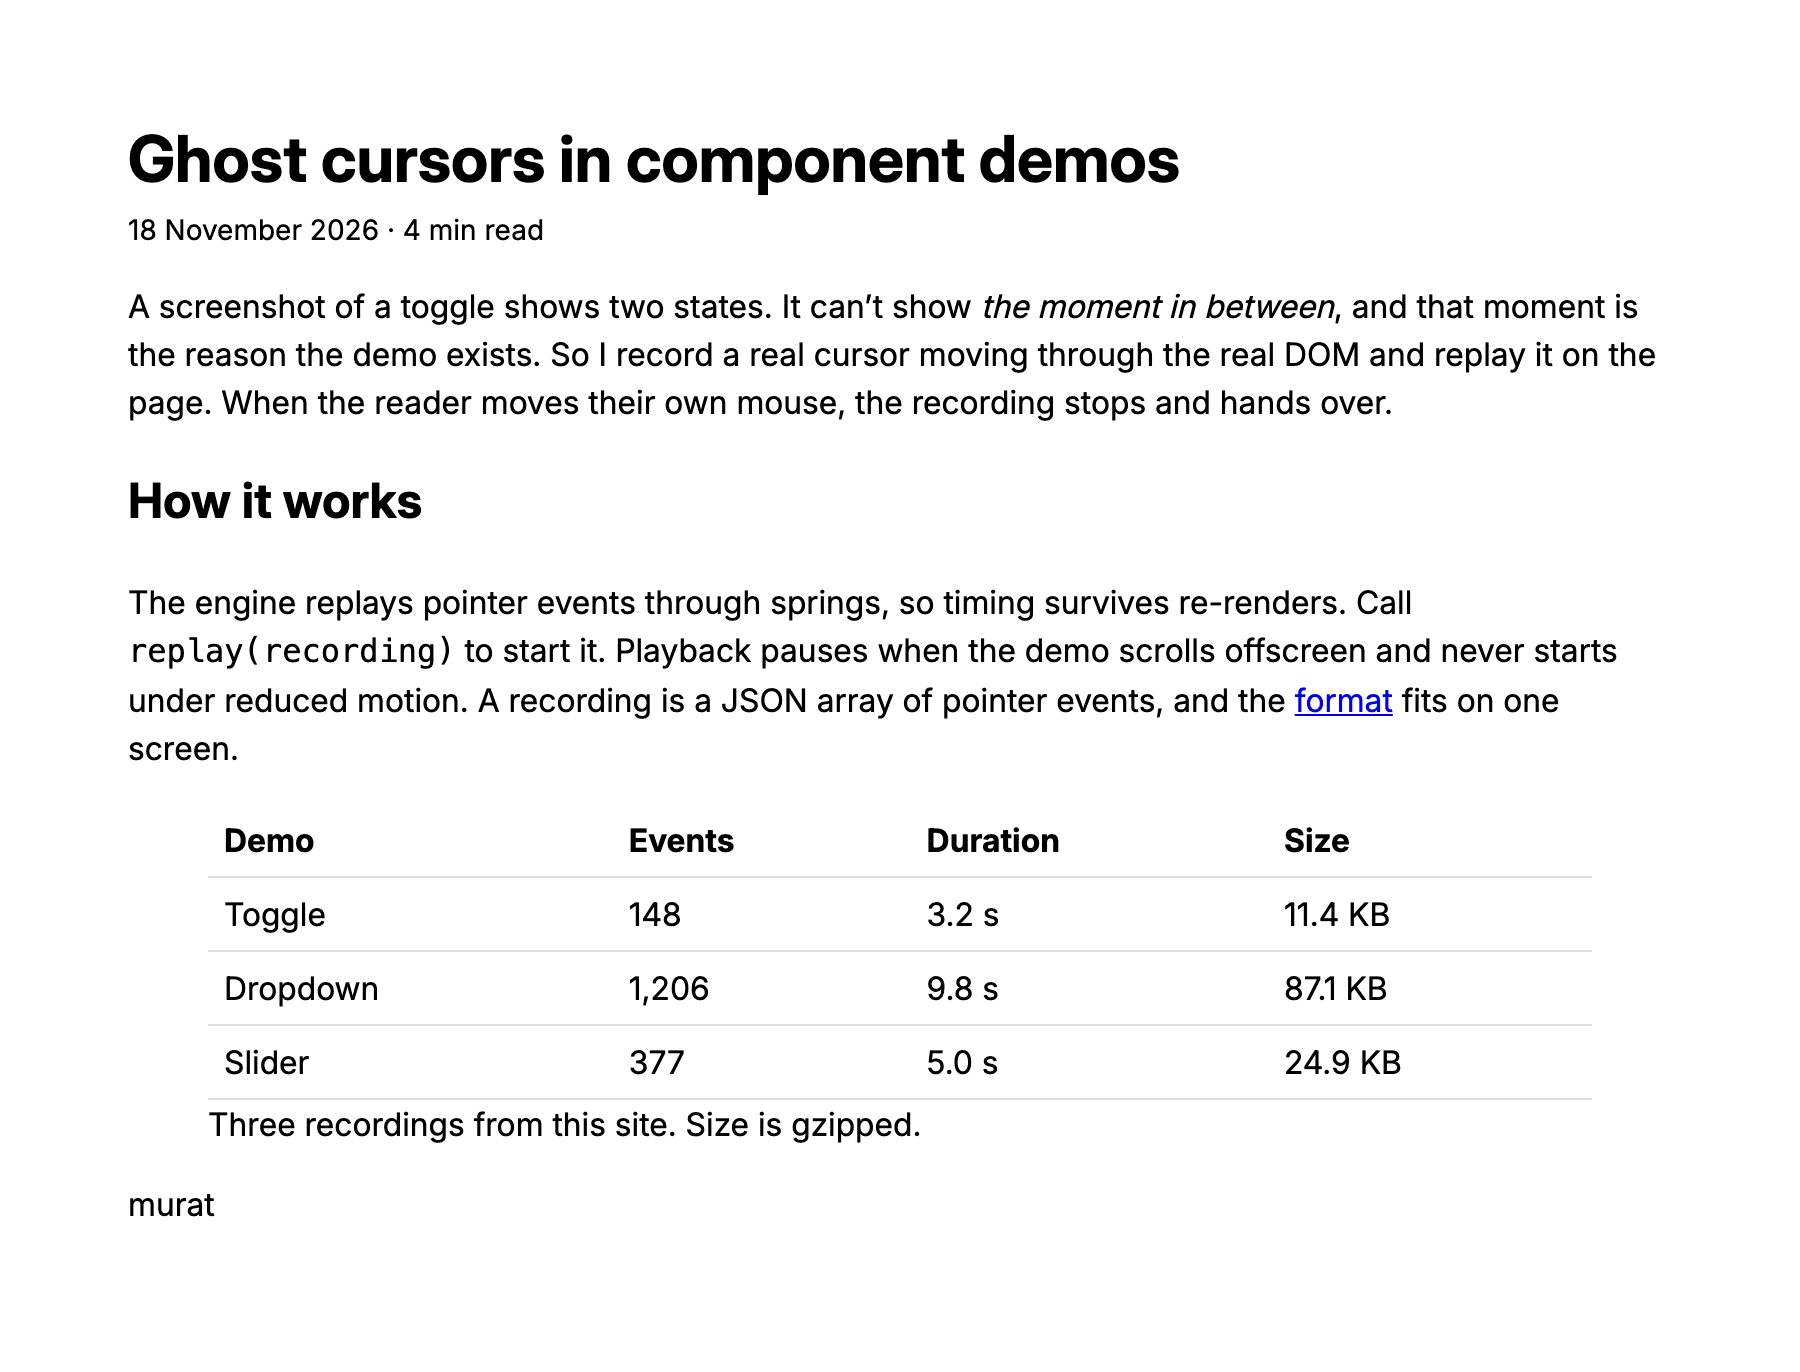
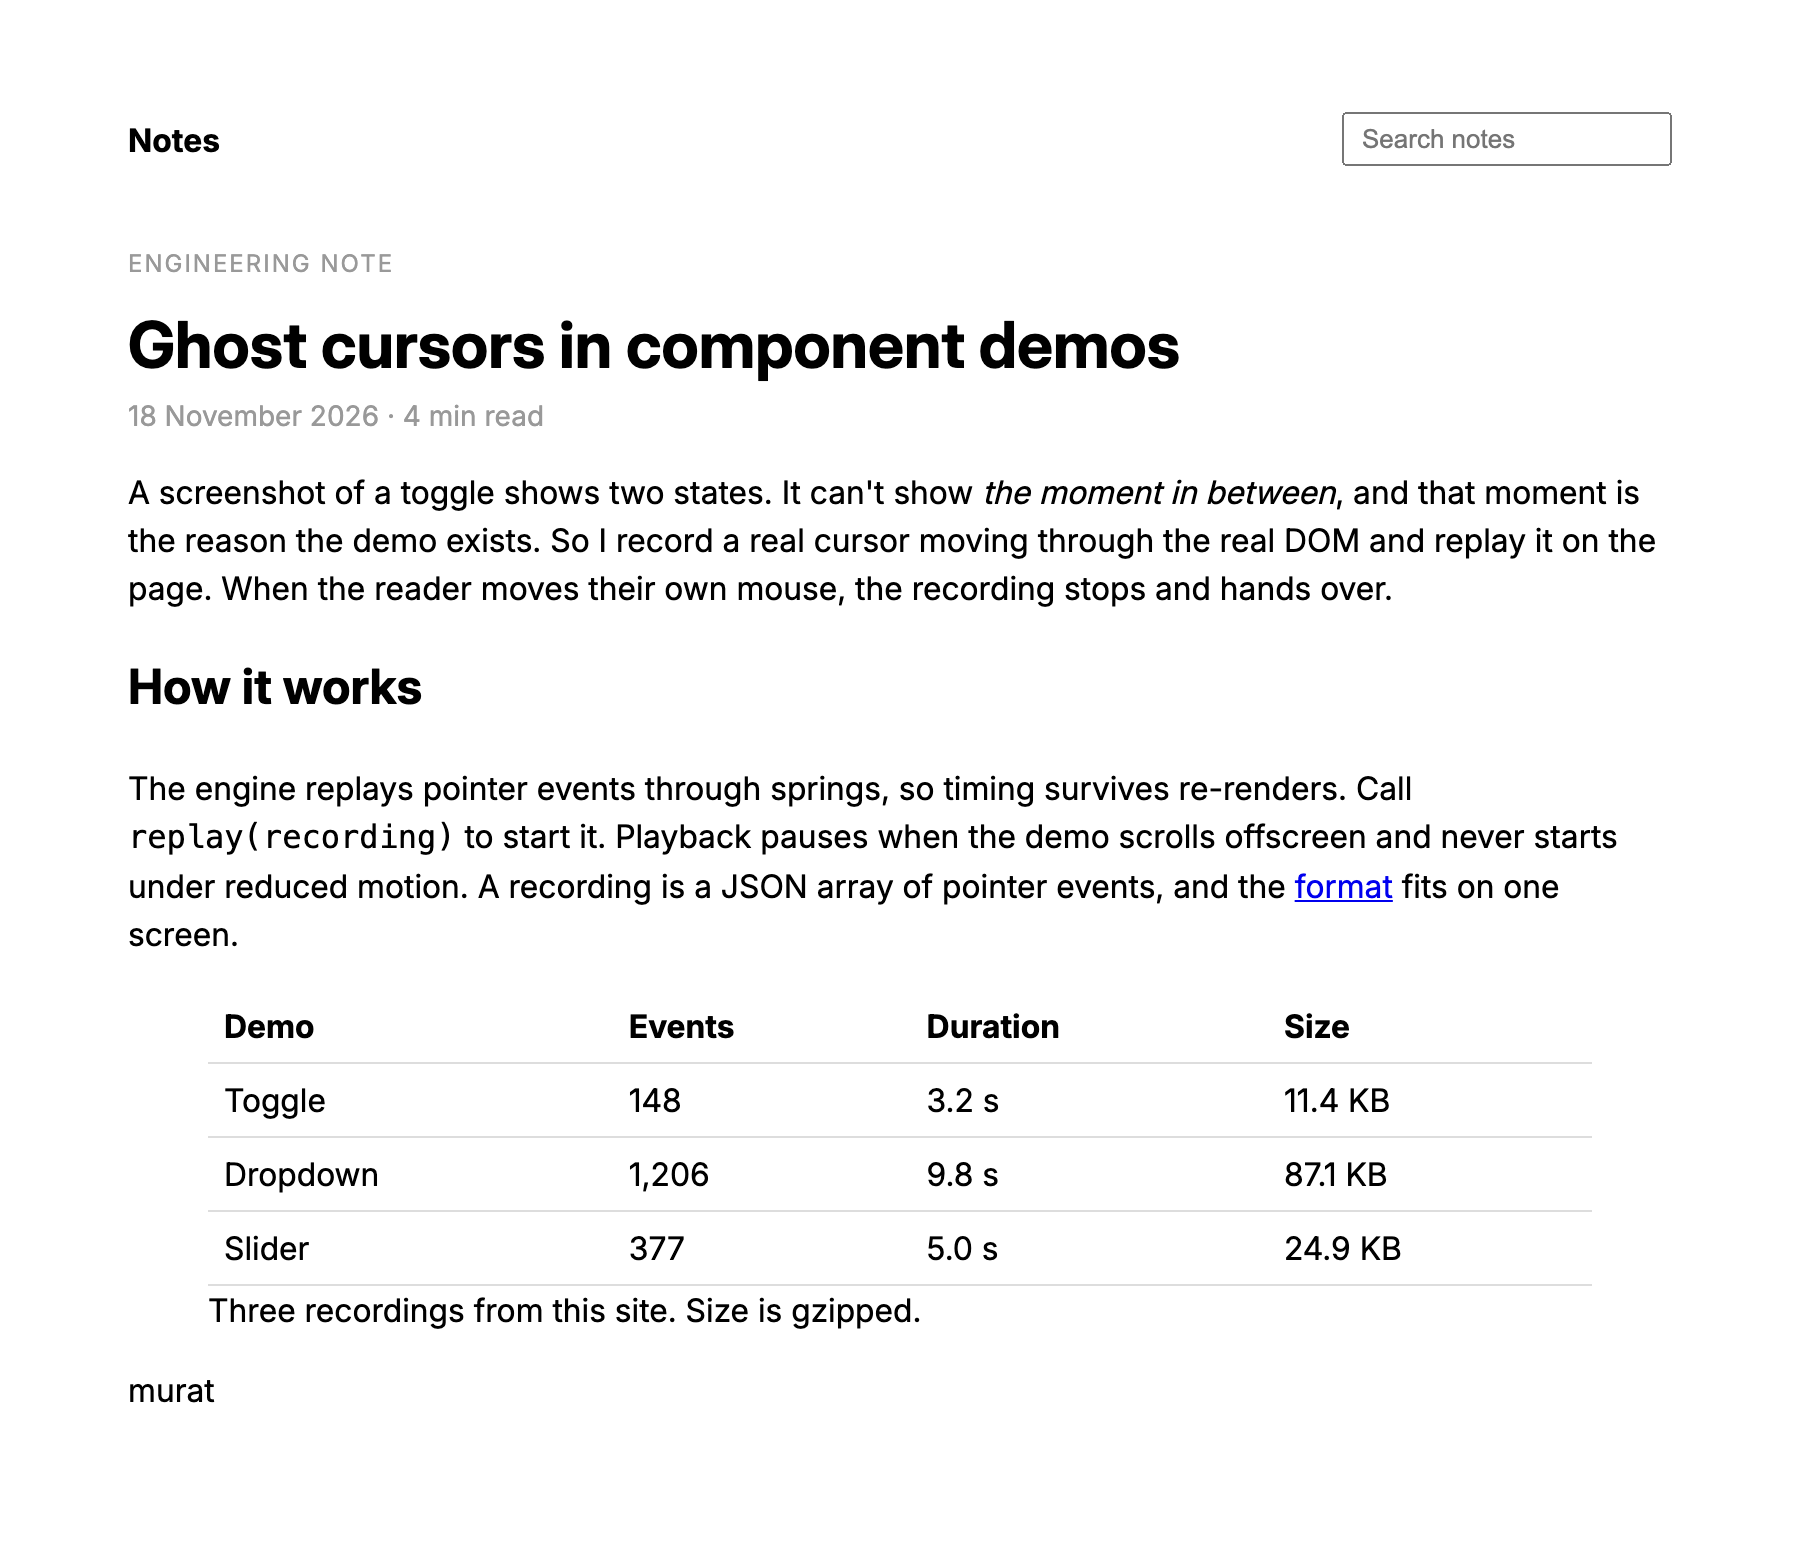
Regenerate type-taste before and after

diff --git a/skills/type-taste/before-after/before.html b/skills/type-taste/before-after/before.html
@@ -1,17 +1,24 @@
-<!doctype html><html lang="en"><head><meta charset="utf-8"><title>Before</title><style>
+<!doctype html><html lang="en"><head><meta charset="utf-8"><meta name="viewport" content="width=device-width, initial-scale=1, maximum-scale=1"><title>Before</title><style>
 @font-face{font-family:"Inter";src:url(fonts/InterVariable.woff2) format("woff2");font-weight:100 900}
 body{margin:0;background:#fff;color:#000;font-family:"Inter",system-ui,sans-serif;font-size:16px;line-height:1.5}
 .page{padding:56px 64px}
+.top{display:flex;justify-content:space-between;align-items:center;margin-bottom:40px}
+.top a{color:#000;font-weight:700;text-decoration:none}
+.top input{font-size:13px;padding:4px 8px}
+.kicker{font-size:12px;letter-spacing:1px;color:#999;margin:0 0 8px}
 h1{font-size:32px;font-weight:700;line-height:1.5;margin:0}
-.date{font-size:14px;margin:0 0 16px}
+.date{font-size:14px;color:#999;margin:0 0 16px}
 code{font-family:monospace}
 table{border-collapse:collapse;width:100%} th,td{text-align:left;padding:6px 8px;border-bottom:1px solid #ddd} th{font-weight:700}
-</style></head><body><div class="page"><article>
+</style></head><body><div class="page">
+<nav class="top"><a href="/">Notes</a><input type="search" name="q" placeholder="Search notes" aria-label="Search notes"></nav>
+<article>
   <header>
+    <p class="kicker">ENGINEERING NOTE</p>
     <h1>Ghost cursors in component demos</h1>
     <p class="date"><time datetime="2026-11-18">18 November 2026</time> · 4 min read</p>
   </header>
-  <p>A screenshot of a toggle shows two states. It can’t show <em>the moment in between</em>, and that moment is the reason the demo exists. So I record a real cursor moving through the real DOM and replay it on the page. When the reader moves their own mouse, the recording stops and hands over.</p>
+  <p>A screenshot of a toggle shows two states. It can't show <em>the moment in between</em>, and that moment is the reason the demo exists. So I record a real cursor moving through the real DOM and replay it on the page. When the reader moves their own mouse, the recording stops and hands over.</p>
   <h2>How it works</h2>
   <p>The engine replays pointer events through springs, so timing survives re-renders. Call <code>replay(recording)</code> to start it. Playback pauses when the demo scrolls offscreen and never starts under reduced motion. A recording is a JSON array of pointer events, and the <a href="#format">format</a> fits on one screen.</p>
   <figure>

diff --git a/skills/type-taste/before-after/after.html b/skills/type-taste/before-after/after.html
@@ -1,10 +1,17 @@
-<!doctype html><html lang="en"><head><meta charset="utf-8"><meta name="color-scheme" content="light dark"><title>After</title>
+<!doctype html><html lang="en"><head><meta charset="utf-8"><meta name="viewport" content="width=device-width, initial-scale=1"><meta name="color-scheme" content="light dark"><title>After</title>
 <link rel="stylesheet" href="tokens.css"><style>
 /* Spacing is left to the eye: everything below is a multiple of the line it sits on (lh). */
 body { margin: 0; }
-article { max-width: var(--mt-measure); margin-inline: auto; padding-block: 3lh 2lh; }
+nav, article { max-width: var(--mt-measure); margin-inline: auto; }
+nav { display: flex; justify-content: space-between; align-items: center; gap: 1lh; padding-block-start: 2lh; }
+.mt nav a { font-size: var(--mt-ui); line-height: var(--mt-ui-lh); font-weight: var(--mt-w-ui); color: var(--mt-fg-1); text-decoration-line: none; }
+nav input { font: inherit; font-size: var(--mt-prose); line-height: var(--mt-prose-lh); color: var(--mt-fg-1); background: transparent;
+  inline-size: 14em; padding-block: 0.25lh; padding-inline: 0.5lh; border: 1px solid var(--mt-fg-5); border-radius: 0.25lh; }
+nav input::placeholder { color: var(--mt-fg-4); }
+article { padding-block: 2lh; }
 :where(article) :where(h1, h2, p, figure) { margin: 0; }
 article > * + * { margin-block-start: 1lh; }
+header > .label { margin-block-end: 0.5lh; }
 article > h2 { margin-block-start: 1.5lh; }
 article > h2 + p { margin-block-start: 0.25lh; }
 .date { color: var(--mt-fg-3); }
@@ -17,8 +24,11 @@ td:first-child { color: var(--mt-fg-1); font-weight: var(--mt-w-ui); }
 :is(th, td):not(:first-child) { text-align: end; }
 figcaption { margin-block-start: 0.5lh; font-size: var(--mt-meta); line-height: var(--mt-meta-lh); color: var(--mt-fg-3); }
 article > .sign { margin-block-start: 1.5lh; }
-</style></head><body class="mt"><article>
+</style></head><body class="mt">
+<nav><a href="/">Notes</a><input type="search" name="q" placeholder="Search notes" aria-label="Search notes"></nav>
+<article>
   <header>
+    <div class="label">Engineering note</div>
     <h1 class="mt-h-same">Ghost cursors in component demos</h1>
     <p class="date"><time datetime="2026-11-18">18 November 2026</time> · 4 min read</p>
   </header>

diff --git a/site/lib/skills.ts b/site/lib/skills.ts
@@ -179,19 +179,19 @@ export const SKILLS: Skill[] = [
       "To review a page or a pull request: every checklist line comes back pass or fail, then one fix per issue in your project’s own syntax. Native apps, email and print are out of scope.",
     ],
     playground: {
-      title: "The same HTML rendered twice, from the worked example in `skills/type-taste/before-after`.",
+      title: "The same post before and after, from the worked example in `skills/type-taste/before-after`.",
       prompt: "/type-taste fix the typography on this page",
       phases: [
         {
           id: "before",
           label: "Before",
-          caption: "Browser defaults. A big bold title, black text, a bold table head and a wide measure.",
+          caption: "As written. A 13px search field, a pale date at 2.85:1, a big bold title, black text and a wide measure.",
           duration: 2600,
         },
         {
           id: "after",
           label: "After",
-          caption: "type-taste. The title at body size in 550, prose in grey, Newsreader italic for emphasis, mono caps on the table head.",
+          caption: "type-taste. A 16px search field, the date in fg-3, the title at body size in 550, prose in grey and Newsreader italic for emphasis.",
           duration: 4200,
         },
       ],

diff --git a/site/components/playground/scenes.tsx b/site/components/playground/scenes.tsx
@@ -76,11 +76,11 @@ function TypeShot({ which }: { which: "before" | "after" }) {
     <Image
       src={`/type-taste/${which}.png`}
       width={1800}
-      height={which === "before" ? 1372 : 1514}
+      height={which === "before" ? 1558 : 1696}
       alt={
         which === "before"
-          ? "A blog post with browser defaults: a large bold title, black text and a bold table head."
-          : "The same post with type-taste: a quiet title at body size, grey prose, a serif italic phrase and mono caps on the table head."
+          ? "A blog post as written: a small search field, a pale label and date, a large bold title, black text and a bold table head."
+          : "The same post with type-taste: a 16px search field, a mono caps label, a quiet title at body size, grey prose, a serif italic phrase and mono caps on the table head."
       }
       sizes="(min-width: 768px) 644px, 100vw"
       draggable={false}

diff --git a/skills/type-taste/before-after/compare.html b/skills/type-taste/before-after/compare.html
@@ -4,6 +4,6 @@ body { margin: 0; padding: 24px; display: flex; gap: 40px; align-items: start; b
 .label { margin: 0 0 10px; }
 img { width: 880px; display: block; box-shadow: 0 0 0 1px rgb(0 0 0 / 0.08); }
 </style></head><body class="mt">
-<figure style="margin:0"><figcaption class="label">Before · browser defaults</figcaption><img src="before.png" alt=""></figure>
+<figure style="margin:0"><figcaption class="label">Before · as written</figcaption><img src="before.png" alt=""></figure>
 <figure style="margin:0"><figcaption class="label">After · type-taste</figcaption><img src="after.png" alt=""></figure>
 </body></html>

diff --git a/skills/type-taste/before-after/snippet.html b/skills/type-taste/before-after/snippet.html
@@ -1,5 +1,7 @@
+<nav><a href="/">Notes</a><input type="search" name="q" placeholder="Search notes" aria-label="Search notes"></nav>
 <article>
   <header>
+    <div class="label">Engineering note</div>
     <h1>Ghost cursors in component demos</h1>
     <p class="date"><time datetime="2026-11-18">18 November 2026</time> · 4 min read</p>
   </header>

diff --git a/skills/type-taste/before-after/render.py b/skills/type-taste/before-after/render.py
@@ -32,7 +32,7 @@ body { margin: 0; padding: 24px; display: flex; gap: 40px; align-items: start; b
 .label { margin: 0 0 10px; }
 img { width: 880px; display: block; box-shadow: 0 0 0 1px rgb(0 0 0 / 0.08); }
 </style></head><body class="mt">
-<figure style="margin:0"><figcaption class="label">Before · browser defaults</figcaption><img src="before.png" alt=""></figure>
+<figure style="margin:0"><figcaption class="label">Before · as written</figcaption><img src="before.png" alt=""></figure>
 <figure style="margin:0"><figcaption class="label">After · type-taste</figcaption><img src="after.png" alt=""></figure>
 </body></html>
 """)

diff --git a/skills/type-taste/before-after/report.md b/skills/type-taste/before-after/report.md
@@ -1,0 +1,53 @@
+# type-taste review of `before.html`
+
+`references/audit.js` was run on `before.html` served over HTTP, in light and in dark, at 900px and 390px. Lines 12–13 and 17–23 were checked by eye. The page has one stylesheet, an inline `<style>` with plain selectors, so every fix is plain CSS: link `tokens.css`, put `class="mt"` on `body`, and change the rules below. The fixed page is `after.html`.
+
+## Checklist (light / dark)
+
+1. fail / fail: `<code>` computes `monospace`
+2. fail / fail: no element computes `cv01`, `ss03`
+3. fail / fail: `a` "Notes", `h1`, `h2`, `th` compute 700
+4. fail / fail: prose is 16px/24px and 772px wide
+5. fail / fail: `h1` 32px/48px, `h2` 24px/36px
+6. fail / fail: "ENGINEERING NOTE" is sans, tracked 1px
+7. fail / fail: text is `rgb(0, 0, 0)` and `rgb(153, 153, 153)`
+8. fail / fail: `p` and `h1`–`h3` compute `auto` wrap; table digits are proportional
+9. fail / fail: `em` is slanted Inter 400; `font-synthesis` is on
+10. pass / pass
+11. fail / fail: the link underline is the default blue
+12. fail: the page stays white on `#fff` in dark
+13. pass
+14. fail / fail: the kicker and the date are 2.85:1 on `#fff`
+15. fail / fail: the search field computes 13px; the viewport meta has `maximum-scale=1`
+16. pass / pass
+17. fail: font smoothing isn't declared
+18. pass
+19. fail: "ENGINEERING NOTE" is typed in capitals
+20. pass
+21. pass: `lang="en"`, and the page is left to right only
+22. fail: `can't` uses a straight apostrophe
+23. pass
+
+## before.html
+
+Must-fix
+- `before.html:10` `.date` is `#999` on `#fff` (2.85:1). `color: var(--mt-fg-3);` (line 14, contrast floor)
+- `before.html:8` `.kicker` is `#999` on `#fff` (2.85:1). `color: var(--mt-fg-3);` (line 14, contrast floor)
+- `before.html:7` the search field is 13px, so phones zoom on focus. `font-size: var(--mt-prose); line-height: var(--mt-prose-lh);` (line 15, inputs at 16px)
+- `before.html:1` the viewport meta switches zoom off. `<meta name="viewport" content="width=device-width, initial-scale=1">` (line 15, inputs at 16px)
+- `before.html:2` no italic face is loaded, so the browser slants Inter for `em`. `em { font-family: var(--mt-serif-italic); font-style: italic; font-weight: 430; font-size: 1.07em; line-height: 0; }` and `font-synthesis: none` on the root (line 9, real italic)
+
+Taste
+- `before.html:3` body text is black at 16/24 with no Inter features. `.mt` from `tokens.css`: `color: var(--mt-fg-2); font-size: 16px; line-height: 26px; font-feature-settings: "cv01", "ss03";` (lines 2, 4, 7, prose role)
+- `before.html:9` `h1` is 32px at 700, and `h2` falls back to 24px at 700. `class="mt-h-same"` on both: `font-size: inherit; line-height: inherit; font-weight: 550; color: var(--mt-fg-1);` (lines 3, 5, same-size headings on a reading page)
+- `before.html:6` "Notes" is black at 700. `font-size: 15px; line-height: 24px; font-weight: 450; color: var(--mt-fg-1);` (lines 3, 7, UI role)
+- `before.html:4` paragraphs run 772px wide. `max-width: 644px;` on `p`, `li` and the column (line 4, measure)
+- `before.html:12` `th` is sans at 700 and aligned `left`. `th { font: 500 12px/16px var(--mt-mono); letter-spacing: 0.3px; text-transform: uppercase; color: var(--mt-fg-3); text-align: start; }` (lines 3, 6, label role)
+- `before.html:12` table digits are proportional. `table { font-variant-numeric: tabular-nums; }` and `text-align: end` on the number columns (line 8, tabular numbers)
+- `before.html:17` "ENGINEERING NOTE" is typed in capitals and tracked 1px in the sans. Source `Engineering note` with `class="label"` (lines 6, 19, casing)
+- `before.html:11` `code` is the system `monospace`. `font-family: var(--mt-mono); font-size: 0.8125em; color: var(--mt-fg-1);` (line 1, dedicated mono)
+- `before.html:3` paragraphs and headings wrap greedily. `p, li { text-wrap: pretty; } h1, h2, h3 { text-wrap: balance; }` (line 8, wrap)
+- `before.html:3` the `format` link keeps the browser's blue underline. `text-decoration-thickness: 1px; text-underline-offset: 2px; text-decoration-color: var(--mt-fg-5);` (line 11, underlines)
+- `before.html:3` there is no dark scheme. The dark ladder in `tokens.css` on `#121212` (line 12, dark mode)
+- `before.html:3` font smoothing isn't set. `-webkit-font-smoothing: antialiased; -moz-osx-font-smoothing: grayscale;` once, on `.mt` (line 17, smoothing)
+- `before.html:21` `can't`. `can’t` (line 22, punctuation)
